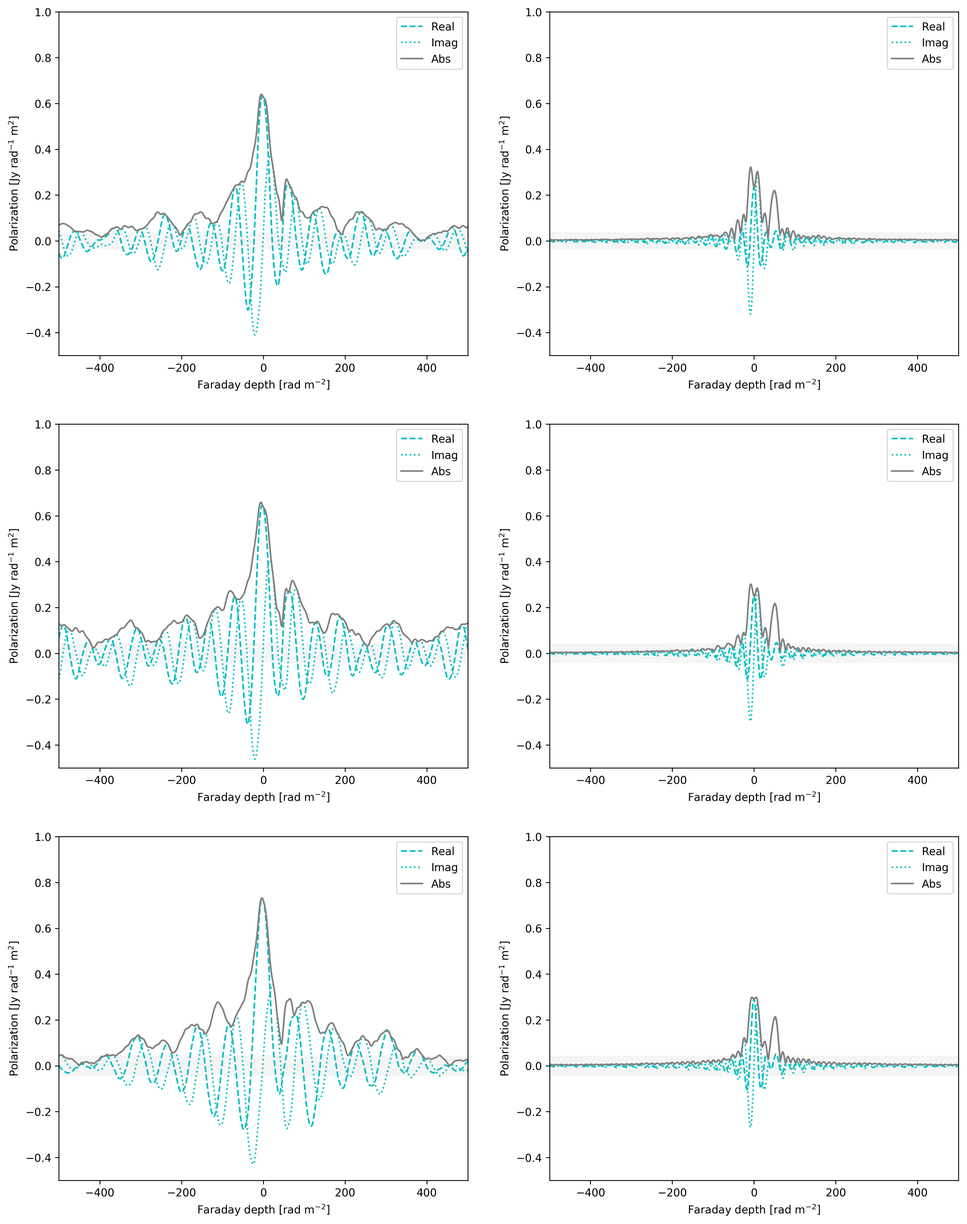
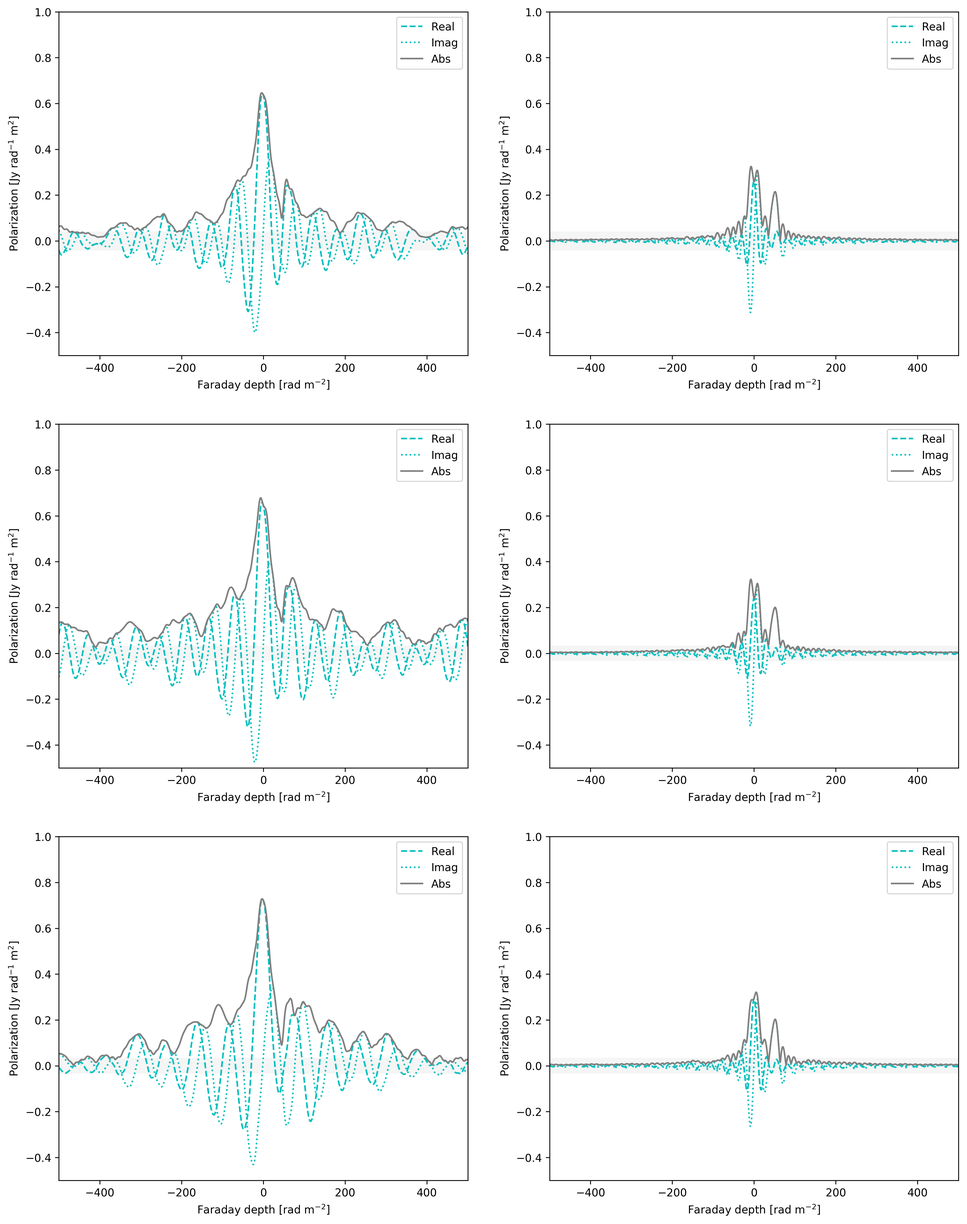
Updates from Overleaf

diff --git a/gpm_paper.tex b/gpm_paper.tex
@@ -43,6 +43,7 @@
 \usepackage{graphicx}	% Including figure files
 \usepackage{amsmath}	% Advanced maths commands
 \usepackage{amssymb}	% Extra maths symbols
+\usepackage{lscape}
 
 %%%%%%%%%%%%%%%%%%%%%%%%%%%%%%%%%%%%%%%%%%%%%%%%%%
 
@@ -67,10 +68,8 @@ S.~W.~Ndiritu,$^{1}$\thanks{E-mail: simon.ndiritu@postgrad.manchester.ac.uk
  (SWN)}
 A.~M.~M.~Scaife$^{1}$,
 D.~Tabb$^{2}$,
-M.~C{\'a}rcamo$^{1,3}$,
-J.~Hanson$^{1}$ \&
-H.~Baird$^{1}$
-\\
+M.~C{\'a}rcamo$^{1,3}$ \&
+J.~Hanson$^{1}$ \\
 % List of institutions
 $^{1}$ Jodrell Bank Centre for Astrophysics, School of Physics and Astronomy, University of Manchester, Alan Turing Building,\\ Oxford Road, Manchester, M13 9PL, UK \\
 $^{2}$ Jodrell Bank Centre for Astrophysics, School of Physics and Astronomy, University of Manchester, Alan Turing Building,\\ Oxford Road, Manchester, M13 9PL, UK \\
@@ -81,7 +80,7 @@ $^{3}$ Departamento de Ingenier\'ia Inform\'atica, Universidad de Santiago de Ch
 \date{Accepted XXX. Received YYY; in original form ZZZ}
 
 % Enter the current year, for the copyright statements etc.
-\pubyear{2015}
+\pubyear{2019}
 
 % Don't change these lines
 \begin{document}
@@ -133,20 +132,14 @@ known as the rotation measure transfer function, RTMF$(\phi)$. Consequently, the
 
 These issues are of particular importance when complex or compound Faraday structures are seen along a single line of sight. In a blind data challenge comparing different methods for extracting the parameters of Faraday structures, Sun et~al. (2014) noted that RM synthesis was highly prone to missing composite Faraday structures and that the $\sim$25\% of extragalactic sources seen observationally to have such structures (e.g. Law et al. 2011) was likely to be an underestimate. Sun et~al. concluded that when Faraday complexity is present, only QU-fitting methods will produce results that do not introduce extraneous scatter in recovered RM values. Such QU-fitting methods (e.g. Farnsworth et al. 2011; O'Sullivan et al. 2012; Ideguchi et al. 2014) model the observed polarization, $\tilde{P}(\lambda^2)$, directly rather than decomposing Faraday depth spectra to recover parameters. However, whilst QU-fitting methods can be more reliable for recovering composite structures, in particular those including Faraday thick components, they rely on physically parametrised models of the synchrotron-emitting and Faraday rotating media along the line of sight to be known a priori. 
 
-In this work we explore the potential for using a Gaussian Process Modelling (GPM) approach to improve both the interpretation of Faraday depth spectra and the recovery of physical parameters from polarization measurements. In its simplest form, a GPM approach can be considered part of the family of QU-fitting methods; however, it has certain advantages over physically parameterised model-fitting methods, which include both a robustness to using non-exact models for imperfectly known datasets and an ability to provide predictive models for imputation including posterior variances.  The contents of this paper are as follows, in \S~\ref{sec:method} we describe the underlying GPM methodology including a description of the covariance kernel functions employed and the optimization of their hyper-parameters; in \S~\ref{sec:sims} we illustrate the use of the method on simulated data and in \S~\ref{sec:realdata} we demonstrate the method using real data from the MeerKAT telescope; in \S~\ref{sec:disc} we discuss the implications of these results and compare the outputs to those using a more traditional RM Synthesis approach.
+In this work we explore the potential for using a Gaussian Process Modelling (GPM) approach to improve both the interpretation of Faraday depth spectra and the recovery of physical parameters from polarization measurements. In its simplest form, a GPM approach can be considered part of the family of QU-fitting methods; however, it has certain advantages over physically parameterised model-fitting methods, which include both a robustness to using non-exact models for imperfectly known datasets and an ability to provide predictive models for imputation including posterior variances.  The contents of this paper are as follows, in \S~\ref{sec:method} we describe the underlying GPM methodology including a description of the covariance kernel functions employed and the optimization of their hyper-parameters; in \S~\ref{sec:sims} we illustrate the use of the method on different Faraday structures and in \S~\ref{sec:meerkat} we demonstrate the method using a simulated polarized source population for the MeerKAT radio telescope; in \S~\ref{sec:disc} we discuss the implications of these results and draw our conclusions.
 
 \section{Gaussian Process Modelling for Faraday Depth Reconstruction}
 \label{sec:astrogpm}
 
 Gaussian Processes (GPs) are probabilistic non-parametric models that can be used for a variety of regression and classification problems. A Gaussian Process Model (GPM) can be used to describe a given dataset by assuming a priori that the data themselves represent a realisation of a stochastic process described by a multi-variate Gaussian distribution. Such models are non-parametric as the Gaussian process (GP) is a prior on the data itself rather than on a parametric model, i.e. the complexity of the model grows with the inclusion of additional data points. GPMs are considered to be an attractive solution when modelling systems where the degree of complexity required by a parametric model is not necessarily supported by the amount of information in the observations. Overly complex parametric models are prone to over-fitting and can lead to misinterpretation of the data. In contrast, Gaussian processes are flexible probabilistic regression models that do not require exact knowledge of the underlying physical model and can also provide posterior uncertainties that naturally reflect high uncertainty in regions of data space where there are few observational constraints.
 
-\textcolor{green}{This section needs rewording - just copied and pasted from previous papers at the moment.}
-
-Gaussian Process Modelling (GPM) has been used widely in astronomy, for example in cosmic microwave background estimation (Bond \& Efstathiou 1987; Bond et al. 1999; Wandelt \& Hansen 2003), modelling correlated instrumental noise (Gibson et al. 2012), and for spectroscopic calibration (Evans et al. 2015; Czekala et al. 2017).
-
-More recently, GPs have been used in the stellar and exoplanet fields within astronomy to capture stellar variability or instrumental systematics (see e.g. Gibson et al. 2012; Dawson et al. 2014; Haywood et al. 2014; Barclay et al. 2015; Czekala et al. 2015; Evans et al. 2015; Haywood 2015; Rajpaul et al. 2015; Vanderburg et al. 2015; Aigrain, Parviainen \& Pope 2016; Rajpaul, Aigrain \& Roberts 2016; Littlefair et al. 2017). They are useful in regression problems involving any stochastic process, specifically when the probability distribution for the process is a multivariate Gaussian.
-
-%Here we extend the application of GPM from time series modelling to that of the {\it frequency} series modelling required for studies of cosmic magnetism using Faraday rotation.
+In astrophysics, Gaussian processes have been used in various applications including in the study of photometric redshifts (Way et al. 2009), variability in stellar light curves (Angus et al. 2017), eclipses in cataclysmic variable stars (McAllister et al. 2016), transmission spectroscopy of extrasolar planets (P. Gibson et al. 2011), and radio velocity studies for planetary candidates (Rajpaul et al. 2015). It has also been used extensively in cosmic microwave background analysis (Bond \& Efstathiou 1987; Bond et al. 1999; Wandelt \& Hansen 2003), as well as for modelling instrumental systematics and calibration (e.g. Gibson et al. 2012; Dawson et al. 2014; Haywood et al. 2014; Barclay et al. 2015; Czekala et al. 2015; Evans et al. 2015; Haywood 2015; Rajpaul et al. 2015; Vanderburg et al. 2015; Aigrain, Parviainen \& Pope 2016; Rajpaul, Aigrain \& Roberts 2016; Littlefair et al. 2017). Here we consider the use of GPM for the reconstruction and interpretation of complex polarization data, specifically in the context of Faraday depth structure. 
 
 \subsection{GPM for imputation of missing polarization data}
 \label{sec:imputation}
@@ -311,10 +304,6 @@ and to increase the sensitivity to extended Faraday structures,
 \section{Application to Simulated Data}
 \label{sec:sims}
 
-\subsection{Observational Parameters}
-\label{sec:meerkat}
-
-
 \subsection{Example scenarios}
 \label{sec:scenarios}
 
@@ -454,7 +443,7 @@ The effect of the flagging process on the Faraday depth spectrum is shown for Sc
 %
 \begin{figure*}
 \centerline{\includegraphics[width=0.95\textwidth]{./FIGURES/figure6.png}}
-\caption{\label{fig:flagging1} Faraday depth spectra for Scenario~1 (Faraday thin) with 20\% (top), 30\% (middle) and 40\% (bottom) of channel data flagged and ${\rm SNR}_{\rm chan} = 1$. Left: Faraday depth spectrum from flagged data. Right: Faraday depth spectra from GPM reconstructed data as described in \S~\ref{sec:missing}. The true Faraday depth is marked as a vertical line (dark grey).}
+\caption{\label{fig:flagging1} Faraday depth spectra for Scenario~1 (Faraday thin) with 20\% (top), 30\% (middle) and 40\% (bottom) of channel data flagged and ${\rm SNR}_{\rm chan} = 1$. Left: Faraday depth spectrum from flagged data. Right: Faraday depth spectra from GPM reconstructed data as described in \S~\ref{sec:missing}. The $\pm$5\,$\sigma_{\phi}$ limits are shown as a light grey shaded area.}
 \end{figure*}
 
 
@@ -473,7 +462,7 @@ In this case, recovering the Faraday depth of the thin component is not as stron
 \begin{figure*}
 %\centerline{Original data \hskip 0.45\textwidth Imputed data}
 \centerline{\includegraphics[width=0.95\textwidth]{./FIGURES/figure8.png}}
-\caption{\label{fig:flagging2} Faraday depth spectra for Scenario~2 (Faraday complex) with 20\% (top), 30\% (middle) and 40\% (bottom) of channel data flagged and ${\rm SNR}_{\rm chan, U} = 1$. Left: Faraday depth spectrum from flagged data. Right: Faraday depth spectra from GPM reconstructed data as described in \S~\ref{sec:missing}. The input Faraday depth spectrum is marked by solid lines (dark grey).}
+\caption{\label{fig:flagging2} Faraday depth spectra for Scenario~2 (Faraday complex) with 20\% (top), 30\% (middle) and 40\% (bottom) of channel data flagged and ${\rm SNR}_{\rm chan, U} = 1$. Left: Faraday depth spectrum from flagged data. Right: Faraday depth spectra from GPM reconstructed data as described in \S~\ref{sec:missing}. The $\pm$5\,$\sigma_{\phi}$ limits are shown as a light grey shaded area.}
 \end{figure*}
 
 %\subsection{Recovery of Faraday Thick Structure}
@@ -504,29 +493,83 @@ As described in Sun et~al. (2014), it is expected that many lines of sight will 
 \section{Performance considerations for surveys}
 \label{sec:joedata}
 
-We now extend the application to simulated data to a large data set, such as might be recovered from a MeerKAT observation of a survey field. We use a simulated data set containing Stokes~Q and Stokes~U data for 10,000 Faraday thin sources. Observational parameters are matched to those of the MeerKAT telescope, one of the precursor arrays of the Square Kilometre Array (SKA) (Dewdney et al. 2009, Jonas 2009). The MeerKAT consists of 64 13.5\,m parabolic dishes sited in the Northern Cape province of South Africa. 
+We now extend the application to simulated data to a large data set, such as might be recovered from a MeerKAT observation of a survey field. We use a simulated data set containing Stokes~Q and Stokes~U data for 10,000 Faraday thin sources. Observational parameters are matched to those of the MeerKAT telescope, one of the precursor arrays of the Square Kilometre Array (SKA) (Dewdney et al. 2009, Jonas 2009). The MeerKAT consists of 64 13.5\,m parabolic dishes sited in the Northern Cape province of South Africa (Jonas 2016, Taylor \& Jarvis 2017). 
 
-Polarization surveys for the MIGHTEE survey [REF] are expected to be conducted in the MeerKAT mid-frequency band ($0.90 - 1.67$\,GHz) using 135 frequency channels across the band. This results in a channel width of $\delta\nu \approx 6$\,MHz. The sensitivity of the MeerKAT is expected to be 12\,$\mu$Jy for a 6\,hour observation, which is equivalent to a noise of $\sigma_{\nu} = 140\,\mu$Jy per channel. The relevant parameters of the MeerKAT for this work are as shown in Table~\ref{tab:meerkat} (Jonas 2016, Taylor \& Jarvis 2017).
+%Polarization surveys for the MIGHTEE survey [REF] are expected to be conducted in the MeerKAT mid-frequency band ($0.90 - 1.67$\,GHz) using 135 frequency channels across the band. This results in a channel width of $\delta\nu \approx 6$\,MHz. The relevant parameters of the MeerKAT for this work are as shown in Table~\ref{tab:meerkat} .
+
+10,000 Faraday thin sources were created with an RM taken from a uniform distribution between -100 and +100\,rad\,m$^{-2}$. Stokes~Q and U values were generated for 135 frequency channels spaced uniformly in wavelength from 0.86\,GHz to 1.70\,GHz. The intrinsic angle of polarisation for each source, $\chi_0$, was sampled randomly from a uniform distribution $[-\pi, +\pi)$. 
+%Each polarisation spectrum was then used to find the Faraday spectrum for each source using RM Synthesis \cite{2005A&A...441.1217B}. 
+
+
+At each frequency, noise was added to the Stokes~Q and U values using a normal distribution with a mean of zero and a variance of $1.32\times10^{-6}$\,Jy\,beam$^{-1}$, which was calculated using
 %
-\begin{table}
-\caption{\label{tab:meerkat}}
-\begin{tabular}{|l|c|c|c|c|}
-\hline
-& $\Delta \lambda^2$ & $\lambda^2_{\rm min}$ & $\delta \phi$ & $|\phi_{\rm max-scale}|$ \\\hline
-$0.58 - 1.01$\,GHz & 0.179 & 0.088 & 19.35 & 35.70\\
-$0.90 - 1.67$\,GHz & 0.079 & 0.032 & 43.85 & 98.17\\
-$1.75 - 2.50$\,GHz & 0.015 & 0.014 & 230.94 & 224.40\\\hline
-\end{tabular}
-\end{table}
+\begin{equation}
+\label{eq:S_rms}
+S_{\rm rms} = \frac{2 k_{\rm B} T}{A\eta \sqrt{n_{\rm a}(n_{\rm a} - 1) \Delta \nu\tau_0}} \frac{w_{\rm rms}}{w_{\rm mean}},
+\end{equation}
+%
+where $k_{\rm B}$ is Boltzmann's constant, the sensitivity is $\eta A/T = 220$\,m$^2$/K (\cite{2012AfrSk..16..101B}), $n_{\rm a}$ is the number of antennas, $\Delta \nu$ is the frequency channel width, and $\tau_0$ is the observation integration time. The integration time is assumed to be one hour, and the ratio ${w_{\rm rms}}/{w_{\rm mean}}$ is assumed to be unity, equivalent to natural weighting. This simulated data does not include any instrumental polarization leakage between the Stokes parameters.
 
-The simulated Faraday thin sources have a range of rotation measure values drawn from a uniform distribution, $-100<RM<100$\,rad\,m$^{-2}$. The amplitude of the polarized intensity for these sources is drawn from the 1.4\,GHz source counts model of [REF] and the values in the dataset range from 47\,$\mu$Jy to 28\,mJy. 
+Values for Stokes~I were taken informed by the extragalactic source counts models in \cite{2010A&ARv..18....1D}, which are shown in Figure \ref{fig:SourceCounts1}. These models cover flux density values up to 1\,Jy for Star Forming Galaxies (SFGs), and up to 148.4\,Jy for Active Galactic Nuclei (AGN). 
+%
+\begin{figure}
+\centering
+\includegraphics[width=0.45\textwidth]{./FIGURES/SourceCounts1.png}
+\caption{\label{fig:SourceCounts1} Contributions from different source populations at 1.4\,GHz used for the simulations here. \cite{2010A&ARv..18....1D}. }
+\end{figure}
+
+The frequency-dependence of the flux density values were simulated with a frequency dependence of
+%
+\begin{equation}
+\label{FreqDependent}
+S_{\nu} = S_{\rm 1.4\,GHz}\left(\frac{\nu}{\rm 1.4\,GHz} \right)^{-\alpha},
+\end{equation}
+%
+where $S_\nu$ is the flux density at each frequency, $\nu$, $S_{1.4\GHz}$ is the flux density at 1.4\,GHz, and $\alpha$ is the spectral index, which is taken to be the canonical value of $\alpha$ = 0.7 for synchrotron radiation. 
+
+The intensity of the polarised signal $P$ is given by
+%
+\begin{equation}
+\label{eq:PolarisedSignal}
+P = \sqrt{Q^2 + U^2} = I*\Pi,
+\end{equation}
+%
+where $Q$ and $U$ are the Stokes parameters for linear polarisation, $I$ is the total intensity Stokes parameter, and $\Pi$ is the polarisation fraction. To simulate values for $\Pi$, the following relationship was used,
+%
+\begin{equation}
+\label{eq:StilEquation}
+\log \Pi_{0,{\rm med}} = −(0.051 \pm 0.004) \log S_{\rm 1.4\,GHz} + (0.388 \pm 0.007)
+\end{equation}
+%
+\cite{Stil_2014}, where $\Pi_{0, {\rm med}}$ is the median percentage polarisation fraction and $S_{\rm 1.4\,GHz}$ is the 1.4\,GHz flux density in mJy. 
+
+%Figure \ref{fig:PolfracVsFluxDensity} shows how the polarisation fraction varies with the flux density according to Equation~\ref{eq:StilEquation}. 
+%
+%\begin{figure}
+%\centering
+%\includegraphics[width=0.45\textwidth]{./FIGURES/PolfracVsFluxDensity.png}
+%\caption{\label{fig:PolfracVsFluxDensity} Plot of the polarisation fraction values determined from Eq. \ref{eq:StilEquation}, which were used in simulating data here. The red line shows  Eq. \ref{eq:StilEquation} itself plotted, and the dotted blue lines show example results for 10,000 generated sources simulated in the same way as those used in the dataset uses here. This is done to provide some context and intuition regarding the relative frequency of the polarisation fraction and flux density values in the simulated data.}
+%\end{figure}
+%
+%\begin{table}
+%\caption{\label{tab:meerkat}}
+%\begin{tabular}{|l|c|c|c|c|}
+%\hline
+%& $\Delta \lambda^2$ & $\lambda^2_{\rm min}$ & $\delta \phi$ & $|\phi_{\rm max-scale}|$ \\\hline
+%$0.58 - 1.01$\,GHz & 0.179 & 0.088 & 19.35 & 35.70\\
+%$0.90 - 1.67$\,GHz & 0.079 & 0.032 & 43.85 & 98.17\\
+%$1.75 - 2.50$\,GHz & 0.015 & 0.014 & 230.94 & 224.40\\\hline
+%\end{tabular}
+%\end{table}
+
+We randomly select 500 sources from this population and use an optimised GP with the kernel specified in Equation~\ref{eq:celkernel} to recover the rotation measure for each object. We use a prior range of $\mathcal{U}(-25,+5)$ for all hyper-parameters in log space.  The distribution of recovered RM values is shown in Figure~\ref{fig:survey}, where it is compared to the known input values. It can be seen that the rotation measures are recovered with consistently good accuracy. The average run time per object is 43\,seconds on a Macbook Pro with a 3.5\,GHz Intel Core i7 processor.
 %
 \begin{figure*}
 \includegraphics[width=0.9\textwidth]{./FIGURES/figure9.png}
-\caption{\label{fig:survey}}
+\caption{\label{fig:survey} Comparison between the true input RM value and the RM value recovered by the optimised GP for each of the sources in the MeerKAT simulation. See \S~\ref{sec:joedata} for details.}
 \end{figure*}
 
-Data flagging for the MeerKAT in this band is expected to remove approximately $20-30\%$ of the bandwidth due to radio frequency interference from satellites. 
+%Data flagging for the MeerKAT in this band is expected to remove approximately $20-30\%$ of the bandwidth due to radio frequency interference from satellites. 
 
 
 
@@ -543,9 +586,12 @@ If the optimized GPM was used to predict the posterior mean only at the position
 \subsubsection{Recovery of Faraday thick structure}
 \label{sec:thick}
 
-As can be seen in Figure~\ref{fig:scen2extend}, using an optimized GP to predict the complex polarization signal at smaller values of $\lambda^2$ than are present in the original dataset can be beneficial for recovering extended structure in Faraday depth space. When used to predict the behaviour of a signal outside the range of measurements, the posterior covariance of a GP will increase in response to the stationary nature of the covariance not finding any additional measurements to anchor it. This increase in covariance can be used to down-weight predicted values of the posterior mean, relative to those known with more confidence. At large separations from the measured data, where no information on appropriate covariances is present in the GP model, the prediction will tend towards the mean function. For cases where the mean function is assumed to be zero-valued, this is equivalent to the same logical sampling as in the original dataset. 
+As can be seen in Figure~\ref{fig:flagging2}, using an optimized GP to improve the interpretability of the Faraday depth spectrum in the case where Faraday thick structure is present can reveal these structures without the need for assuming any specific parametric model of Faraday depth a priori. Although it is not possible to recover the parameterised geometry of the thick structure from the hyper-parameters of the GP in this case, the shape is far more clearly delineated in the GP-reconstructed Faraday depth spectrum than in the spectrum calculated from the original data. This remains the case even in the presence of high degrees of RFI excision.
+
+In principle, GPs might also be used to predict the complex polarization signal at smaller values of $\lambda^2$ than are present in the original dataset, which could be beneficial for recovering extended structure in Faraday depth space. When used to predict the behaviour of a signal outside the range of measurements, the posterior covariance of a GP will increase in response to the stationary nature of the covariance not finding any additional measurements to anchor it. This increase in covariance can be used to down-weight predicted values of the posterior mean, relative to those known with more confidence. The behaviour of the prediction will tend towards the mean function and in the general case where the mean function is assumed to be zero-valued, this is equivalent to the same logical sampling as in the original dataset; however, for spectra where Faraday thick structure are present, which have non-zero means at low-$\lambda^2$ this may artificially truncate structure. This was found to be the case here for the kernel in Equation~\ref{eq:celkernel} when used to extend $\lambda^2$-space as illustrated in Figure~\ref{fig:resampling}.
 
 It is also important to note that structures which exist only on scales larger than that set by the measured $\lambda^2_{\rm min}$ will {\it not} be recovered by a GP model used for prediction outside the range of the original measurements. Hence this form of structure enhancement for Faraday thick structures can only be used to improve the recovery of structures which exist on scales that are already sampled in part by the original measurements. Any larger structures will not appear in the Faraday depth spectrum of the GP reconstruction, an effect analogous to flux loss in synthesis imaging for radio interferometry. 
+
 
 \subsubsection{Polarization leakage}
 \label{sec:leakage}
@@ -564,7 +610,7 @@ RM_{\rm wtd} = \frac{\sum_{i}{|F_i|\phi_i}}{\sum_{i}{|F_i|}},
 where $|F_i|$ is the magnitude of the Faraday depth spectrum at a Faraday depth, $\phi_i$. The quantity, $RM_{\rm wtd}$, is a strong function of the range of Faraday depth in the calculated spectrum and should not be used without differencing against a reference spectrum.
 
 \begin{table}
-\caption{\label{tab:challengepriors}}
+\caption{\label{tab:challengepriors} Range of uniform priors used for each of the hyper-parameters in the Faraday challenge, see \S~\ref{sec:challenges} for details.}
 \centering
 \begin{tabular}{|c|c|}
 \hline
@@ -576,8 +622,9 @@ $\ln \sigma$ & (-2,2)\\\hline
 \end{tabular}
 \end{table}
 %
-We evaluate the performance of the GP approach using the 16 models from Sun et~al. (2017). These models include examples of single Faraday thin objects, multiple (two) Faraday thin objects, and combinations of a Faraday thick and Faraday thin objects. The parameters for each model are listed in Table~\ref{tab:challenge} and we use the same method as described in \S~\ref{sec: } with hyper-parameter priors as given in Table~\ref{tab:challengepriors}. The reduced $\chi^2$ for parametric models described in 
-Sun et~al. (2017) is roughly equivalent to the standardized mean squared error (SMSE). For an optimised GP, the SMSE is defined as
+We evaluate the performance of the GP approach using the 16 models from Sun et~al. (2017). These models include examples of single Faraday thin objects, multiple (two) Faraday thin objects, and combinations of a Faraday thick and Faraday thin objects. 
+%The parameters for each model are listed in Table~\ref{tab:challenge} and we use the same method as described in \S~\ref{sec: } with hyper-parameter priors as given in Table~\ref{tab:challengepriors}. 
+The reduced $\chi^2$ for parametric models described in Sun et~al. (2017) is roughly equivalent to the standardized mean squared error (SMSE). For an optimised GP, the SMSE is defined as
 %
 \begin{equation}
 SMSE = \frac{1}{2N}\left[ \frac{(P_{\ast} - P(\lambda^2_{\ast}))^2}{\sigma_{\rm n}^2}  \right],
@@ -585,7 +632,7 @@ SMSE = \frac{1}{2N}\left[ \frac{(P_{\ast} - P(\lambda^2_{\ast}))^2}{\sigma_{\rm 
 %
 where $P_{\ast}$ is the posterior mean prediction of complex polarization from the optimized GP, $P(\lambda^2_{\ast})$ is the input complex polarization, and $\sigma_{\rm n}^2$ is the variance of the white noise on the input data. There is a factor of two in the denominator of the normalisation in order to account for the independence of the white noise between Stokes~Q and U. The difference between this quantity and the $\chi^2_{\rm r}$ used by Sun et al. (2017) is the normalisation, which uses $2N-K$ in the demoninator where $K$ is the number of parameters. Although the GP used here is not strictly parametric, we calculate this quantity using $K=4$ to represent the number of hyper-parameters in our model. 
 
-In addition to the SMSE, we also define the {\it mean standardised log loss} as a measure of the prediction quality. As described by Rasmussen \& Williams (2004), this quantity is the difference between the negative log likelihood for the optimized GP, given by,
+In addition to the median reduced chi-squared statistic, we also define the {\it mean standardised log loss} (MSLL) as a measure of the prediction quality. As described by Rasmussen \& Williams (2004), this quantity is the difference between the negative log likelihood for the optimized GP, given by,
 %
 \begin{equation}
 -\log p(P_{\ast} | D, \lambda^2_{\ast}) = \frac{1}{2}\log(2\pi \sigma_{\ast}) + \frac{(P_{\ast} - P(\lambda^2_{\ast}))^2}{2\sigma_{\ast}^2},
@@ -593,7 +640,7 @@ In addition to the SMSE, we also define the {\it mean standardised log loss} as 
 %
 where $D$ are the input training data and all other quantities are as defined previously, and the negative log likelihood for a reference model defined as Gaussian noise with a mean and variance equivalent to those of the noisy input data. 
 
-The results of these evaluations for the optimised GP approach are listed for each model in Table~\ref{tab:challenge}. It can be seen that the average reduced chi-squared statistic recovered from our model, $\chi^2_{\rm r} = XX$, is in very good agreement with the expected optimum value of $1.00\pm0.02$; however, the $RM_{\rm wtd}$ statistic is not in good agreement with the expected optimum value of $1.3\pm0.5$. This is due to the GP interpreting some low local structure in the noise fluctuations of the input data as signal, which is reflected as structure in the Faraday depth spectrum below the detection threshold described in \S~\ref{sec:usage}.  
+The median of the reduced chi-squared statistic recovered from our model, $\chi^2_{\rm r} = 0.99$, is in very good agreement with the expected optimum value of $1.00\pm0.02$ from Sun et~al. (2014), which is also consistent with the value of the $MSLL= -0.90$; however, the median $RM_{\rm wtd}=4.88$ statistic is not in good agreement with the expected optimum value of $1.3\pm0.5$. This is due to the GP interpreting some low local structure in the noise fluctuations of the input data as signal, which is reflected as structure in the Faraday depth spectrum below the detection threshold described in \S~\ref{sec:usage}. 
 
 \subsection{Alternative kernels}
 \label{sec:infocrit}
@@ -602,7 +649,7 @@ For a given regression problem, there are an infinite number of models that can 
 
 The BIC is considered to be a powerful model selection tool when the `true' model is in the set of test models. For simulated data such as that used here, this is considered appropriate; however, in the case of true empirical data the AIC is considered to be a more appropriate criterion. Furthermore, the {\it corrected} AIC places a stronger complexity penalty on models used with finite data series than the original AIC. In the case of small sample sizes it is considered to be more appropriate and accurate for finding the preferred model. For a more detailed comparison of the different information criteria we refer the reader to Burnham \& Anderson (2002).
 
-To assess the performance of the GP model described in \S~\ref{sec:method} and denoted here as "3-HP" we compare it to (i) the quasi-periodic kernel used by Foreman-Mackey et al. (2017) used to model stellar variability, and (ii) a hybrid kernel including a second squared-exponential term. 
+To assess the performance of the GP model described in \S~\ref{sec:method} and denoted here as ``3-HP" we compare it to (i) the quasi-periodic kernel used by Foreman-Mackey et al. (2017) used to model stellar variability, and (ii) a hybrid kernel including a second squared-exponential term. 
 
 In Foreman-Mackey et al. (2017), the period of rotation of a star was determined by extracting the optimised $P$ hyper-parameter, analogous to our use of $P$ to estimate the rotation measure of a Faraday thin source. The stellar variability kernel from Foreman-Mackey et al. (2017) is also built using the {\tt celerite} library and has the form,
 %
@@ -611,9 +658,9 @@ In Foreman-Mackey et al. (2017), the period of rotation of a star was determined
 k(x_i,x_j)=\frac{B}{1+C}\,{\rm e}^{-A|x_i - x_j|}\left[\cos\left(\frac{2\pi|x_i - x_j|}{P}\right) + (1+C)\right],
 \end{equation}
 %
-where $A$, $B$, $C$ and $P$ are hyper-parameters. We denote this kernel as "4-HP".
+where $A$, $B$, $C$ and $P$ are hyper-parameters. We denote this kernel as ``4-HP".
 
-The hybrid kernel, denoted here as "5-HP", has the form,
+The hybrid kernel, denoted here as ``5-HP", has the form,
 %
 \begin{equation}
 \label{eq:celkernel}
@@ -643,7 +690,7 @@ and the corrected AIC (AICc; Hurvich \& Tsai 1989),
 where $L^\ast$ is the maximum value of the likelihood, $K$ is the number of free parameters, and $N$ is the number of data points. The results of these tests, averaged over different models are shown in Table~\ref{tab:infocriteria} where it can be seen that the 5-HP kernel is strongly preferred for thin sources, but that the 3-HP and 4-HP kernels are preferred for the double and thick Faraday spectra. This suggests that different kernels may be used to optimise recovery of specific Faraday structures. 
 %
 \begin{table}
-\caption{Model comparison for Scenario~1.\label{tab:infocriteria}}
+\caption{Kernel comparison for the 16 Faraday challenge models.\label{tab:infocriteria}}
     \centering
     \begin{tabular}{l|cc|ccc}
     \hline
@@ -656,9 +703,9 @@ where $L^\ast$ is the maximum value of the likelihood, $K$ is the number of free
     {\it Thin}             & &   & -6913.6 & -6931.2& -6931.2\\
     {\it Double}             & &   & -3456.4 & -3473.9 & -3474.0\\
     {\it Thick}            & &   & -5526.6 & -5544.1 & -5544.2 \\
-    \textbf{5-HP}               & 300 & 5 & \textbf{-4551.2} & \textbf{-4573.2} & \textbf{-4573.3}\\
+    \textbf{5-HP}               & 300 & 5 & \textbf{-4561.6} & \textbf{-4583.6} & \textbf{-4583.7}\\
     {\it Thin}            & &   & -6955.4 & -6977.4 & -6977.5\\
-    {\it Double}              & &   & -3442.5 & -3464.4 & -3464.5\\
+    {\it Double}              & &   & -3460.2 & -3482.2 & -3482.3\\
     {\it Thick}            & &   & -5519.9 & -5541.9 & -5542.0\\\hline
     \end{tabular}
 \end{table}
@@ -667,8 +714,9 @@ where $L^\ast$ is the maximum value of the likelihood, $K$ is the number of free
 %\centerline{\includegraphics[width=0.33\textwidth]{./FIGURES/3hp_bp.png}\qquad\includegraphics[width=0.33\textwidth]{./FIGURES/4hp_bp.png}\qquad\includegraphics[width=0.33\textwidth]{./FIGURES/5hp_bp.png}}
 %\caption{\label{fig:boxplot}}
 %\end{figure*}
-
-
+%
+Using the same noise parameters as in \S~\ref{sec:challenges}, the goodness of fit statistics for the 16 models using the two alternative kernels are $\chi^2_{\rm r} = 1.01$, $MSLL=-0.94$ and $RM_{\rm wtd}=3.62$, for the 4-HP model, and $\chi^2_{\rm r} = 0.97$, $MSLL=-0.81$ and $RM_{\rm wtd}=4.98$, for the 5-HP model. 
+These equally high values of the median $RM_{\rm wtd}$ statistic indicate that the 4-HP and 5-HP kernels are also over-fitting the data to some extent. Repeated fits to the Faraday challenge models with different noise realisations show that the 5-HP kernel has a consistently higher $RM_{\rm wtd}$ value than the 4-HP and 3-HP kernels, suggesting that its additional flexibility is a disadvantage in the presence of noise.
 
 \section{Conclusions}
 \label{sec:conclusions}
@@ -688,9 +736,7 @@ We suggest that GPM may be a more flexible alternative to traditional QU-fitting
 
 \section*{Acknowledgements}
 
-The Acknowledgements section is not numbered. Here you can thank helpful
-colleagues, acknowledge funding agencies, telescopes and facilities used etc.
-Try to keep it short. M.  C{\'a}rcamo  acknowledges  support  granted  by  CON-ICYT   PFCHA/DOCTORADO   BECAS   CHILE/2018-72190574.
+SWN acknowledges support from the UK Newton Fund via the Science \& Technology Facilities Council (STFC) through the Development in Africa with Radio Astronomy (DARA) Big Data project. JH acknowledges support from the UK Science \& Technology Facilities Council (STFC). MC acknowledges support from CONICYT PFCHA/DOCTORADO BECAS CHILE/2018-72190574.
 
 %%%%%%%%%%%%%%%%%%%%%%%%%%%%%%%%%%%%%%%%%%%%%%%%%%
 
@@ -715,40 +761,41 @@ Others S., 2012, Journal of Interesting Stuff, 17, 198
 
 %%%%%%%%%%%%%%%%% APPENDICES %%%%%%%%%%%%%%%%%%%%%
 
-\appendix
+%\appendix
 
-\section{Faraday challenge models}
+%\section{Faraday challenge models}
 
-\newcommand\Tstrut{\rule{0pt}{2.6ex}}       % top strut
-\newcommand\Bstrut{\rule[-1.1ex]{0pt}{0pt}} % bottom strut
+%\newcommand\Tstrut{\rule{0pt}{2.6ex}}       % top strut
+%\newcommand\Bstrut{\rule[-1.1ex]{0pt}{0pt}} % bottom strut
 
-\begin{table*}
-\caption{\label{tab:challenge}}
-\begin{tabular}{@{\extracolsep{4pt}}|l|c|c|c|c|c|c|c|c|c|c|c|c|c|@{}}
-\hline
- & \multicolumn{9}{c}{Input Parameters} & \multicolumn{4}{c}{Evaluation Metrics} \\
-  \cline{2-9}  \cline{10-14}
- & $p_1$ & $\phi_1$ & $\chi_1$ & $p_2$ & $\phi_2$ & $\chi_2$ & $p_0$ & $\phi_{\rm c}$ & $\phi_{\rm s}$ & $\chi^2_r$ & SMSE & MSLL & RM$_{\rm wtd}$ \Tstrut\\
- & $\%$ & rad\,m$^{-2}$ & deg & $\%$ & rad\,m$^{-2}$ & deg & $\%$ & rad\,m$^{-2}$ & rad\,m$^{-2}$ & & & & \\\hline
-Model 1 & 100.00 & 500.10 & 40.00 & $-$ & $-$ & $-$ & $-$ & $-$ & $-$ & & & &  \\
-Model 2 & 100.00 & 49.38 & 60.00 & $-$ & $-$ & $-$ & $-$ & $-$ & $-$ & & & &   \\
-Model 3 & 100.00 & 4.96 & 60.00 &  $-$ &  $-$ &  $-$ & $-$ & $-$ & $-$  & & & &  \\
-Model 4 & 25.00 & $-37.84$ & 0.00 & 16.70 & 103.18 & $-36.00$ & $-$ & $-$ & $-$  & & & &  \\
-Model 5 & 25.00 & $-37.84$ & $-40.00$ & 24.00 & 5.05 & $-40.00$ & $-$ & $-$ & $-$  & & & &  \\
-Model 6 & 25.00 & $-37.84$ & $-40.00$ & 9.00 & 5.05 & $-40.00$ & $-$ & $-$ & $-$  & & & &  \\
-Model 7 & 25.00 & $-44.55$ & 0.00 & 16.70 & 37.50 & 72.00 & $-$ & $-$ & $-$  & & & &  \\
-Model 8 & 25.00 & 232.56 & 40.00 & 9.00 & 192.70 & 40.00 &&&  & & & & \\
-Model 9 & 25.00 & $-37.83$ & $-40.00$ & 16.50 & 5.05 & 140.00 & $-$ & $-$ & $-$  & & & & \\
-Model 10 & 25.00 & $-37.84$ & 0.00 & 9.00 & 103.00 & $-36.00$ & $-$ & $-$ & $-$   & & & & \\
-Model 11 & 25.00 & 149.50 & $40.00$ & 23.75 & 163.50 & $-68.00$ & $-$ & $-$ & $-$   & & & & \\
-Model 12 & 25.00 & $-232.56$ & 0.00 & 9.00 & $-50.10$ & 72.00 & $-$ & $-$ & $-$  & & & &  \\
-Model 13 & 25.00 & $-44.55$ & 0.00 & 24.00 & 37.54 & 72.00 & $-$ & $-$ & $-$   & & & & \\
-Model 14 &  $-$ & $-$ & $-$ & $-$ & $-$ & $-$ & 1.90 & $-136.98$ & 50.00  & & & & \\
-Model 15 & 1.80 & $-240.22$ & $-36.00$ & $-$ & $-$ & $-$ & 1.90 & $-250.17$ & 50.00  & & & & \\
-Model 16 & $-$ & $-$ & $-$ & $-$ & $-$ & $-$ & 1.90 & $-136.98$ & 25.00  & & & & \\
-Model 17 & 1.80 & $-240.00$ & $-36.00$ & $-$ & $-$ & $-$ & 1.90 & $-250.17$ & 25.00  & & & & \\\hline
-\end{tabular}
-\end{table*}
+%\begin{table*}
+%\caption{\label{tab:challenge}}
+%\begin{tabular}{@{\extracolsep{4pt}}|l|c|c|c|c|c|c|c|c|c|c|c|c|c|@{}}
+%\hline
+% & \multicolumn{9}{c}{Input Parameters} & \multicolumn{4}{c}{Evaluation Metrics} \\
+%  \cline{2-9}  \cline{10-14}
+% & $p_1$ & $\phi_1$ & $\chi_1$ & $p_2$ & $\phi_2$ & $\chi_2$ & $p_0$ & $\phi_{\rm c}$ & $\phi_{\rm s}$ & $\chi^2_r$ & SMSE & MSLL & RM$_{\rm wtd}$ \Tstrut\\
+% & $\%$ & rad\,m$^{-2}$ & deg & $\%$ & rad\,m$^{-2}$ & deg & $\%$ & rad\,m$^{-2}$ & rad\,m$^{-2}$ & & & & \\\hline
+%Model 1 & 100.00 & 500.10 & 40.00 & $-$ & $-$ & $-$ & $-$ & $-$ & $-$ & & & &  \\
+%Model 2 & 100.00 & 49.38 & 60.00 & $-$ & $-$ & $-$ & $-$ & $-$ & $-$ & & & &   \\
+%Model 3 & 100.00 & 4.96 & 60.00 &  $-$ &  $-$ &  $-$ & $-$ & $-$ & $-$  & & & &  \\
+%Model 4 & 25.00 & $-37.84$ & 0.00 & 16.70 & 103.18 & $-36.00$ & $-$ & $-$ & $-$  & & & &  \\
+%Model 5 & 25.00 & $-37.84$ & $-40.00$ & 24.00 & 5.05 & $-40.00$ & $-$ & $-$ & $-$  & & & &  \\
+%Model 6 & 25.00 & $-37.84$ & $-40.00$ & 9.00 & 5.05 & $-40.00$ & $-$ & $-$ & $-$  & & & &  \\
+%Model 7 & 25.00 & $-44.55$ & 0.00 & 16.70 & 37.50 & 72.00 & $-$ & $-$ & $-$  & & & &  \\
+%Model 8 & 25.00 & 232.56 & 40.00 & 9.00 & 192.70 & 40.00 &&&  & & & & \\
+%Model 9 & 25.00 & $-37.83$ & $-40.00$ & 16.50 & 5.05 & 140.00 & $-$ & $-$ & $-$  & & & & \\
+%Model 10 & 25.00 & $-37.84$ & 0.00 & 9.00 & 103.00 & $-36.00$ & $-$ & $-$ & $-$   & & & & \\
+%Model 11 & 25.00 & 149.50 & $40.00$ & 23.75 & 163.50 & $-68.00$ & $-$ & $-$ & $-$   & & & & \\
+%Model 12 & 25.00 & $-232.56$ & 0.00 & 9.00 & $-50.10$ & 72.00 & $-$ & $-$ & $-$  & & & &  \\
+%Model 13 & 25.00 & $-44.55$ & 0.00 & 24.00 & 37.54 & 72.00 & $-$ & $-$ & $-$   & & & & \\
+%Model 14 &  $-$ & $-$ & $-$ & $-$ & $-$ & $-$ & 1.90 & $-136.98$ & 50.00  & & & & \\
+%Model 15 & 1.80 & $-240.22$ & $-36.00$ & $-$ & $-$ & $-$ & 1.90 & $-250.17$ & 50.00  & & & & \\
+%Model 16 & $-$ & $-$ & $-$ & $-$ & $-$ & $-$ & 1.90 & $-136.98$ & 25.00  & & & & \\
+%Model 17 & 1.80 & $-240.00$ & $-36.00$ & $-$ & $-$ & $-$ & 1.90 & $-250.17$ & 25.00  & & & & \\\hline
+%\end{tabular}
+%\end{table*}
+
 
 %%%%%%%%%%%%%%%%%%%%%%%%%%%%%%%%%%%%%%%%%%%%%%%%%%
 
